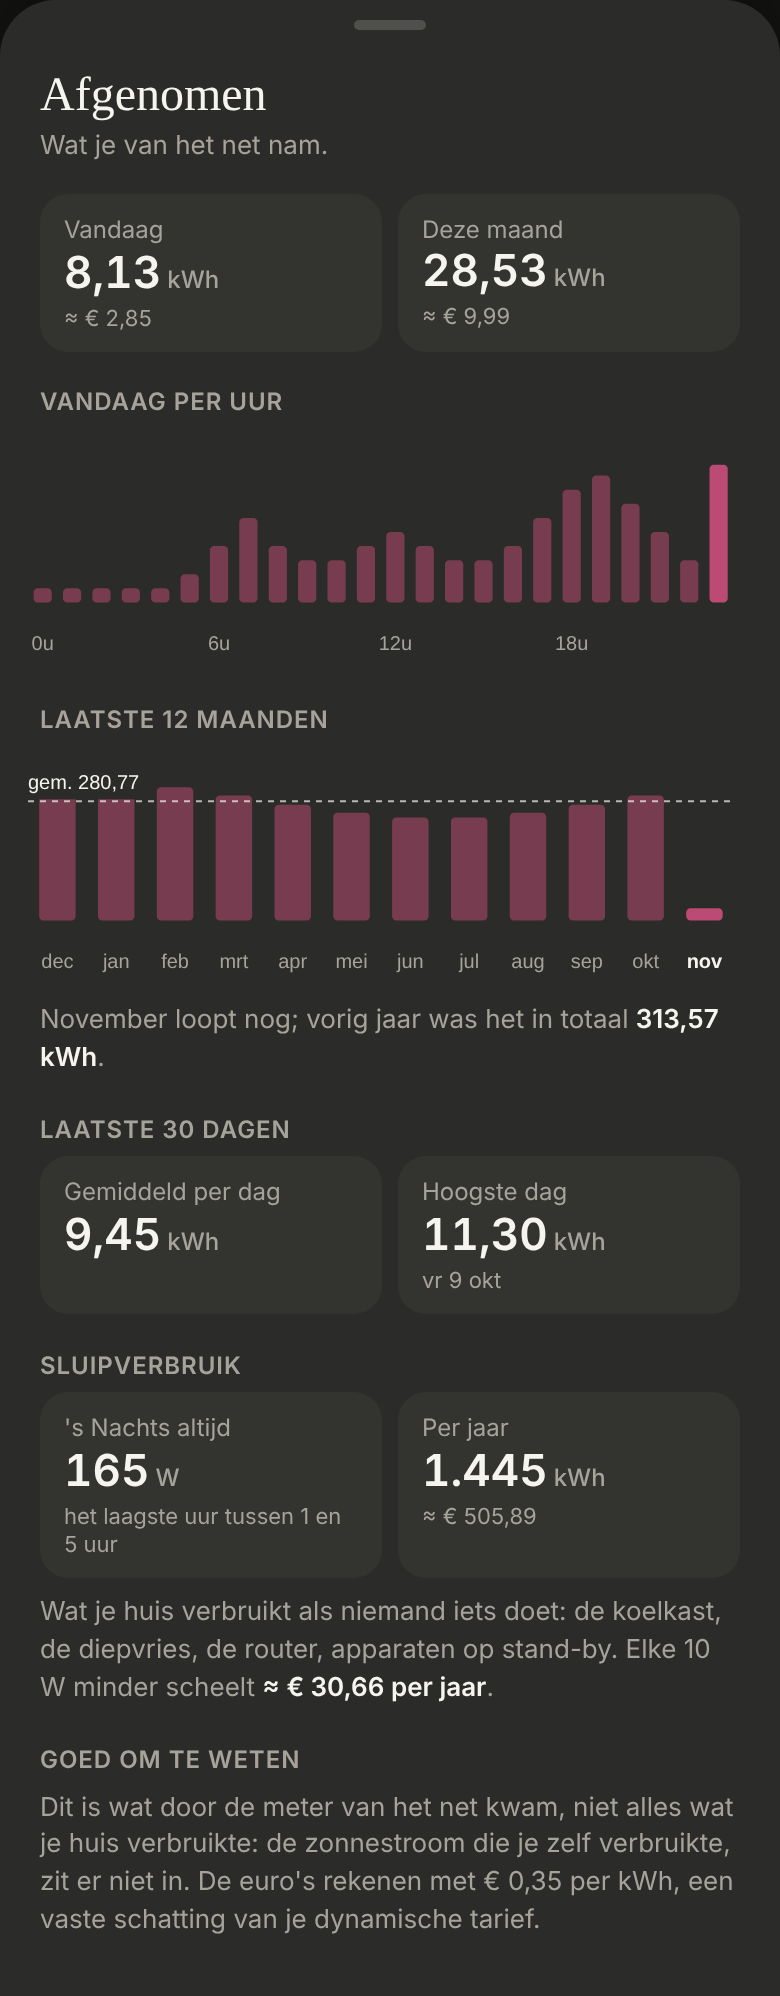
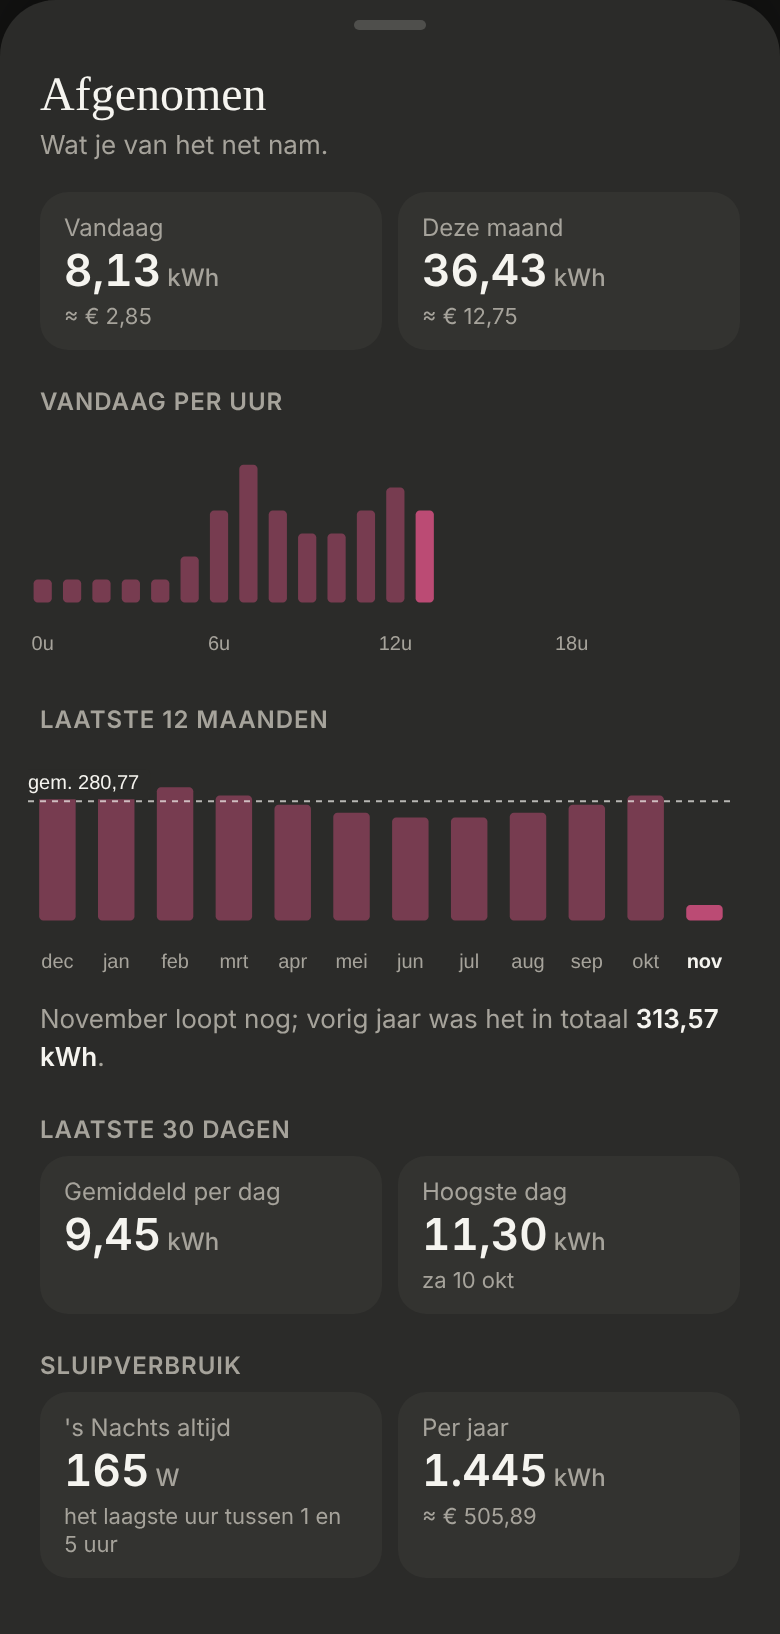
Energie: no "Goed om te weten" in the sheets, no sluipverbruik paragraph
The owner's request: Afgenomen, Zon and Gas lose their "Goed om te
weten" section, and Afgenomen the paragraph under the sluipverbruik.
The highlighted note (InfoNote) is no longer used and is gone.

Claude-Session: https://claude.ai/code/session_01KM6EwXvT22zbGn1J5Xot1E

diff --git a/src/components/energy/ElectricitySheet.tsx b/src/components/energy/ElectricitySheet.tsx
@@ -2,7 +2,7 @@ import { ENERGY_NOW, ENERGY_TODAY } from '../../config/energy';
 import { usePeriodicFetch } from '../../hooks/usePeriodicFetch';
 import { fetchLowestHourlyAverageLastNight, numberState } from '../../lib/statistics';
 import type { HomeAssistant } from '../../types/hass';
-import { InfoFigure, InfoFigures, InfoSection, InfoText, readableAmount, readableEuros } from './InfoSheet';
+import { InfoFigure, InfoFigures, InfoSection, readableAmount, readableEuros } from './InfoSheet';
 import { MeterSheet } from './MeterSheet';
 
 interface Props {
@@ -13,8 +13,6 @@ interface Props {
 /** Last night doesn't change during the day. */
 const REFRESH_NIGHT_EVERY_MILLISECONDS = 30 * 60_000;
 const HOURS_PER_YEAR = 24 * 365;
-/** "Elke 10 W minder…". */
-const EXAMPLE_SAVING_WATTS = 10;
 
 /**
  * "Afgenomen" (docs/design/energie-sheets), behind "Afgenomen vandaag": what
@@ -47,33 +45,21 @@ export function ElectricitySheet({ hass, onClose }: Props) {
       euroPerUnit={euroPerKilowattHour}
       onClose={onClose}
     >
-      {() => (
-        <>
-          {hasStandby && (
-            <InfoSection heading="Sluipverbruik">
-              <InfoFigures>
-                <InfoFigure label="'s Nachts altijd" value={readableAmount(lowestNightWatts, 0)} unit="W" detail="het laagste uur tussen 1 en 5 uur" />
-                <InfoFigure
-                  label="Per jaar"
-                  value={readableAmount((lowestNightWatts * HOURS_PER_YEAR) / 1000, 0)}
-                  unit="kWh"
-                  detail={`≈ ${readableEuros(yearlyEurosFor(lowestNightWatts))}`}
-                />
-              </InfoFigures>
-              <InfoText>
-                Wat je huis verbruikt als niemand iets doet: de koelkast, de diepvries, de router, apparaten op stand-by. Elke{' '}
-                {EXAMPLE_SAVING_WATTS} W minder scheelt <strong>≈ {readableEuros(yearlyEurosFor(EXAMPLE_SAVING_WATTS))} per jaar</strong>.
-              </InfoText>
-            </InfoSection>
-          )}
-          <InfoSection heading="Goed om te weten">
-            <InfoText>
-              Dit is wat door de meter van het net kwam, niet alles wat je huis verbruikte: de zonnestroom die je zelf verbruikte, zit er niet
-              in. De euro's rekenen met € {readableAmount(euroPerKilowattHour, 2)} per kWh, een vaste schatting van je dynamische tarief.
-            </InfoText>
+      {() =>
+        hasStandby && (
+          <InfoSection heading="Sluipverbruik">
+            <InfoFigures>
+              <InfoFigure label="'s Nachts altijd" value={readableAmount(lowestNightWatts, 0)} unit="W" detail="het laagste uur tussen 1 en 5 uur" />
+              <InfoFigure
+                label="Per jaar"
+                value={readableAmount((lowestNightWatts * HOURS_PER_YEAR) / 1000, 0)}
+                unit="kWh"
+                detail={`≈ ${readableEuros(yearlyEurosFor(lowestNightWatts))}`}
+              />
+            </InfoFigures>
           </InfoSection>
-        </>
-      )}
+        )
+      }
     </MeterSheet>
   );
 }

diff --git a/src/components/energy/GasSheet.tsx b/src/components/energy/GasSheet.tsx
@@ -1,7 +1,6 @@
 import { ENERGY_GAS } from '../../config/energy';
 import { numberState } from '../../lib/statistics';
 import type { HomeAssistant } from '../../types/hass';
-import { InfoSection, InfoText, readableAmount } from './InfoSheet';
 import { MeterSheet } from './MeterSheet';
 
 interface Props {
@@ -11,7 +10,7 @@ interface Props {
 
 /**
  * "Gas" (docs/design/energie-sheets), behind "Gas vandaag": the gas meter per
- * hour and per month (winter against summer), with a word on heating.
+ * hour and per month (winter against summer).
  */
 export function GasSheet({ hass, onClose }: Props) {
   const gasTodayCubicMetres = numberState(hass.states, ENERGY_GAS.gasToday);
@@ -29,19 +28,6 @@ export function GasSheet({ hass, onClose }: Props) {
       color={ENERGY_GAS.color}
       euroPerUnit={ENERGY_GAS.euroPerCubicMetre}
       onClose={onClose}
-    >
-      {() => (
-        <InfoSection heading="Goed om te weten">
-          <InfoText>
-            Gas gaat vooral naar de verwarming en warm water, dus in de winter verbruik je per maand vele keren meer dan in de zomer. De
-            verwarming 1 °C lager zetten scheelt ongeveer <strong>7% gas</strong>.
-          </InfoText>
-          <InfoText>
-            De euro's rekenen met € {readableAmount(ENERGY_GAS.euroPerCubicMetre, 2)} per m³, een schatting aan de hoge kant tot de prijs van je
-            factuur er is.
-          </InfoText>
-        </InfoSection>
-      )}
-    </MeterSheet>
+    />
   );
 }

diff --git a/src/components/energy/SolarSheet.tsx b/src/components/energy/SolarSheet.tsx
@@ -1,7 +1,7 @@
 import { ENERGY_TODAY } from '../../config/energy';
 import { numberState } from '../../lib/statistics';
 import type { HomeAssistant } from '../../types/hass';
-import { InfoFigure, InfoFigures, InfoNote, InfoSection, InfoText, readableAmount, readableEuros } from './InfoSheet';
+import { InfoFigure, InfoFigures, InfoSection, InfoText, readableAmount, readableEuros } from './InfoSheet';
 import { MeterSheet } from './MeterSheet';
 import { kilowattHoursPerSolarUnit } from './solarUnits';
 
@@ -13,7 +13,7 @@ interface Props {
 /**
  * "Zon" (docs/design/energie-sheets), behind "Zon vandaag": what the panels
  * made (Smappee), per hour and per month, where today's went (used or
- * injected, the P1 meter), and why using it yourself pays.
+ * injected, the P1 meter), and what using it yourself saved.
  */
 export function SolarSheet({ hass, onClose }: Props) {
   const solarTodayInItsUnit = numberState(hass.states, ENERGY_TODAY.solarToday);
@@ -64,12 +64,6 @@ export function SolarSheet({ hass, onClose }: Props) {
                 </InfoText>
               </InfoSection>
             )}
-            <InfoSection heading="Goed om te weten">
-              <InfoNote>
-                Voor geïnjecteerde stroom krijg je veel minder dan je voor stroom van het net betaalt. Zet de wasmachine, de vaatwasser of de
-                droogkast daarom liefst aan als de zon schijnt.
-              </InfoNote>
-            </InfoSection>
           </>
         );
       }}

diff --git a/src/components/energy/InfoSheet.tsx b/src/components/energy/InfoSheet.tsx
@@ -10,8 +10,8 @@ import { BottomSheet } from '../BottomSheet';
 /**
  * The shared parts of the sheets behind Energie's tiles
  * (docs/design/energie-sheets): a sheet with a title and a line under it,
- * sections with a small heading, figures two by two, a bar chart, a paragraph
- * and a highlighted note. Styles under "Info sheets" in styles.css.
+ * sections with a small heading, figures two by two, a bar chart and a
+ * paragraph. Styles under "Info sheets" in styles.css.
  */
 export function InfoSheet({ title, subtitle, onClose, children }: { title: string; subtitle: string; onClose(): void; children: ReactNode }) {
   return (
@@ -51,11 +51,6 @@ export function InfoFigure({ label, value, unit, detail }: { label: string; valu
 
 export function InfoText({ children }: { children: ReactNode }) {
   return <p className="info-sheet__text">{children}</p>;
-}
-
-/** A tip or a finding, highlighted: neutral, good (green) or a warning (orange). */
-export function InfoNote({ tone = 'neutral', children }: { tone?: 'neutral' | 'good' | 'warning'; children: ReactNode }) {
-  return <div className={`info-sheet__note${tone === 'neutral' ? '' : ` info-sheet__note--${tone}`}`}>{children}</div>;
 }
 
 interface InfoBarChartProps {

diff --git a/src/styles.css b/src/styles.css
@@ -2152,13 +2152,9 @@ a.pill-button { text-decoration: none; }
 .info-sheet__calculation .info-sheet__total { border-top-color: rgba(245, 244, 239, 0.25); color: var(--text); font-weight: 600; }
 .info-sheet__total strong { font-size: 15px; }
 
-/* A paragraph of explanation, and a highlighted tip or warning. */
+/* A paragraph of explanation. */
 .info-sheet__text { margin: 8px 0 0; font-size: 13px; line-height: 1.45; color: var(--text-muted); }
 .info-sheet__text strong { color: var(--text); font-weight: 600; }
-.info-sheet__note { margin-top: 10px; padding: 10px 12px; border-radius: 14px; background: rgba(245, 244, 239, 0.06); font-size: 13px; line-height: 1.45; }
-.info-sheet__note--good { background: rgba(107, 171, 62, 0.14); }
-.info-sheet__note--warning { background: rgba(232, 145, 58, 0.16); }
-.info-sheet__note strong { font-weight: 600; }
 
 
 /* ---------------------------------------------------------------- Day tile (docs/design/day-tile) */

diff --git a/docs/design/energie-sheets/README.md b/docs/design/energie-sheets/README.md
@@ -26,15 +26,12 @@ A tap anywhere on the day tile (`DayTile`'s `onOpen`). A small "›" right after
 
 ## Per sheet
 
-- **Afgenomen** (`sensor.p1_meter_energy_consumption_daily`, pink):
-  - **Sluipverbruik:** the lowest hourly average of the P1 meter last night (1:00–5:00), what the house always uses, with what that is per year in kWh and €, and what 10 W less saves per year. The P1 meter is net, but at night there's no sun, so that's the house.
-  - **Goed om te weten:** this is what came from the grid, not all the house used (own solar isn't in it), and the € is a fixed estimate of the dynamic tariff.
-- **Zon** (Smappee, yellow, no €):
-  - **Waar ging je zon heen vandaag:** used and injected (the P1 meter), each with its share, and what the solar used yourself saved at the price of taking.
-  - **Goed om te weten:** injecting pays far less; run the washing machine and the like while the sun shines.
-- **Gas** (purple): **Goed om te weten:** gas is mostly heating, so winter is many times summer; 1 °C lower saves about 7%; the € is an estimate.
+No "Goed om te weten" sections and no explanatory paragraph under the sluipverbruik (removed at the owner's request, 4 November).
+
+- **Afgenomen** (`sensor.p1_meter_energy_consumption_daily`, pink): **Sluipverbruik:** the lowest hourly average of the P1 meter last night (1:00–5:00), what the house always uses, with what that is per year in kWh and €. The P1 meter is net, but at night there's no sun, so that's the house.
+- **Zon** (Smappee, yellow, no €): **Waar ging je zon heen vandaag:** used and injected (the P1 meter), each with its share, and what the solar used yourself saved at the price of taking.
+- **Gas** (purple): only the shared sections.
 
 ## Assumptions to check
 
-- The rough figure: 7% gas per °C.
 - Sluipverbruik takes the lowest hour; a fridge that cools all night is in it, a device that switches on now and then isn't.
